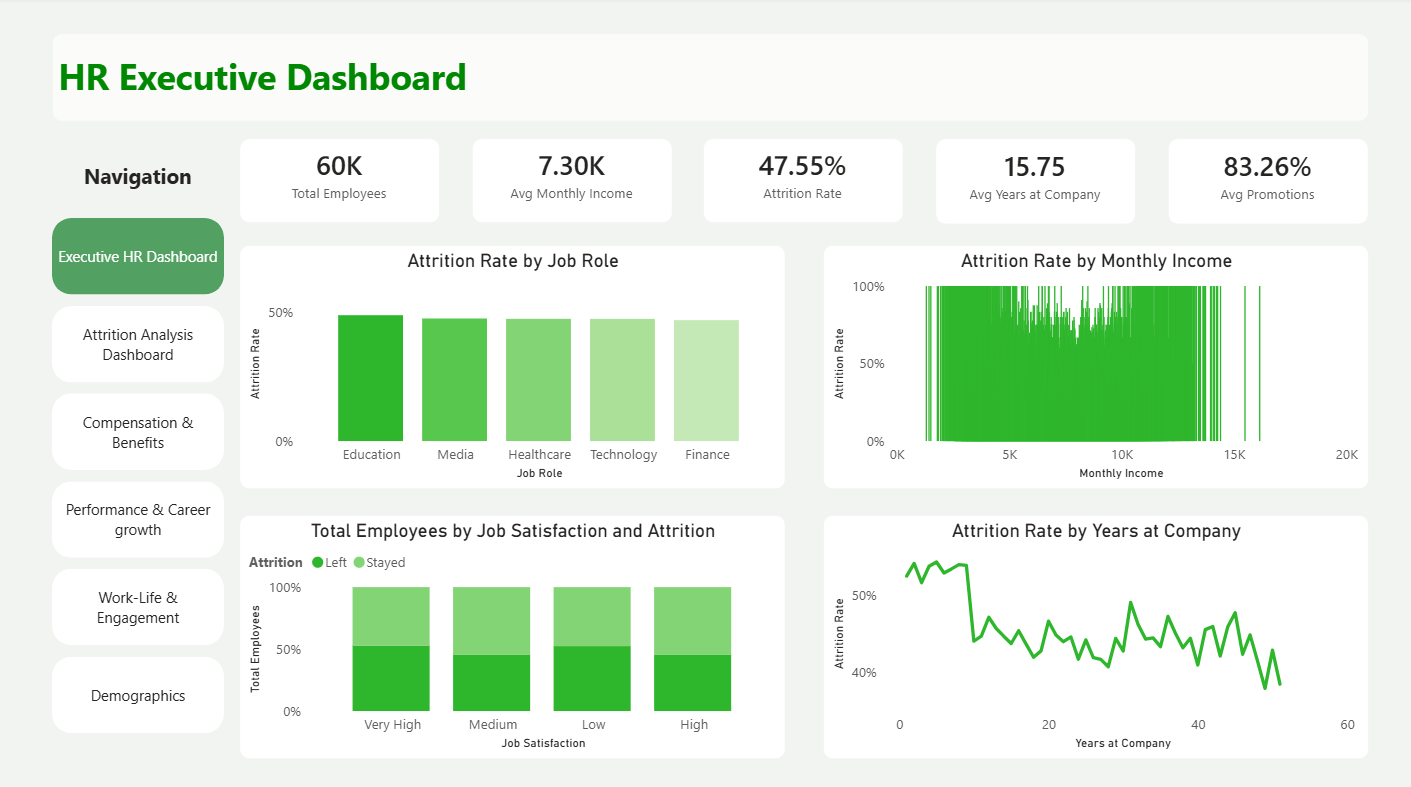
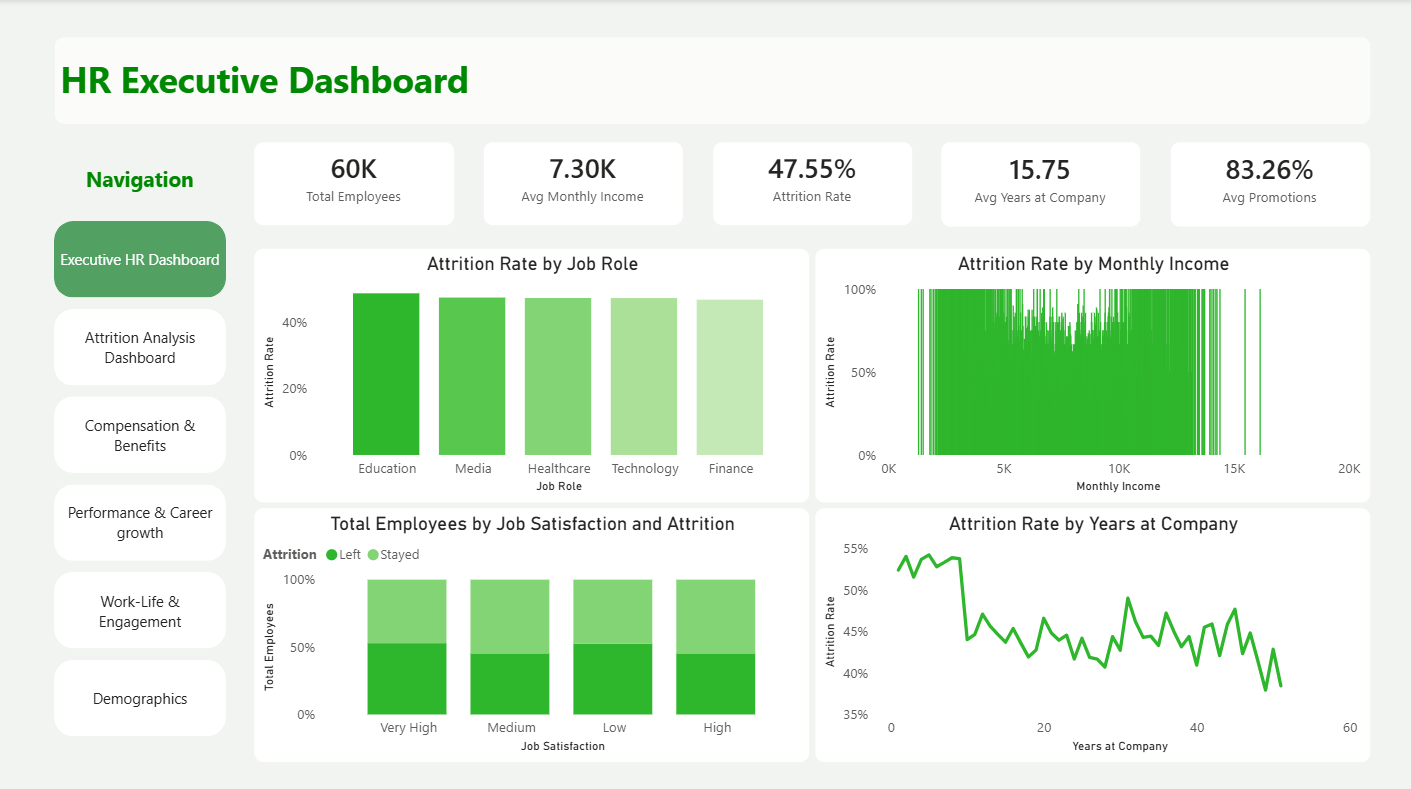
Added HR dashboard

diff --git a/HR Analytics dashboard/README.md b/HR Analytics dashboard/README.md
@@ -1,12 +1,24 @@
 Project Overview
 
+
+
 This end-to-end Power BI project analyzes a workforce of nearly 60,000 employees to uncover the hidden drivers behind attrition and employee satisfaction. The goal was to transform raw HR data into actionable insights for leadership to improve retention and organizational health.
 
 
 
-Dashboard Pages \& Key Insights
 
-1\. Executive Overview
+
+
+
+Dashboard Pages \\\& Key Insights
+
+
+
+1\\. Executive Overview
+
+
+
+
 
 
 
@@ -14,7 +26,15 @@ Purpose: High-level KPIs for leadership.
 
 
 
+
+
+
+
 Metrics: Total Headcount, overall Attrition Rate, Average Salary, and Tenure.
+
+
+
+
 
 
 
@@ -22,7 +42,15 @@ Insight: Provides an immediate snapshot of the company’s stability and scale.
 
 
 
-2\. Attrition \& Retention Analysis
+
+
+
+
+2\\. Attrition \\\& Retention Analysis
+
+
+
+
 
 
 
@@ -30,7 +58,15 @@ Purpose: Identifying "Why" and "Where" people leave.
 
 
 
+
+
+
+
 Metrics: Attrition by Job Role, Overtime impact, and Distance from Home.
+
+
+
+
 
 
 
@@ -38,7 +74,15 @@ Insight: Highlights high-risk departments and the correlation between work-life 
 
 
 
-3\. Compensation \& Performance
+
+
+
+
+3\\. Compensation \\\& Performance
+
+
+
+
 
 
 
@@ -46,7 +90,15 @@ Purpose: Analyzing pay equity and growth.
 
 
 
+
+
+
+
 Metrics: Monthly Income by Gender and Job Level, and the link between Performance Ratings and Promotion frequency.
+
+
+
+
 
 
 
@@ -54,7 +106,15 @@ Insight: Ensures transparency in pay scales and evaluates if the company is "pro
 
 
 
-4\. Demographics \& Work Environment
+
+
+
+
+4\\. Demographics \\\& Work Environment
+
+
+
+
 
 
 
@@ -62,7 +122,15 @@ Purpose: Understanding workforce diversity and culture.
 
 
 
-Metrics: Remote work adoption, age distribution, and sentiment analysis (Job Satisfaction \& Company Reputation).
+
+
+
+
+Metrics: Remote work adoption, age distribution, and sentiment analysis (Job Satisfaction \\\& Company Reputation).
+
+
+
+
 
 
 
@@ -70,9 +138,19 @@ Insight: Assists in tailoring culture-building initiatives based on actual emplo
 
 
 
-Technical Toolkit (DAX \& Modeling)
+
+
+
+
+Technical Toolkit (DAX \\\& Modeling)
+
+
 
 Advanced DAX: Created measures for Attrition % using CALCULATE and DIVIDE to handle dynamic filtering.
+
+
+
+
 
 
 
@@ -80,5 +158,13 @@ Data Transformation: Cleaned and structured 24+ columns for optimized performanc
 
 
 
+
+
+
+
 Visualization: Used a mix of heatmaps, distribution charts, and KPI cards to ensure scannability.
+
+
+
+
 
